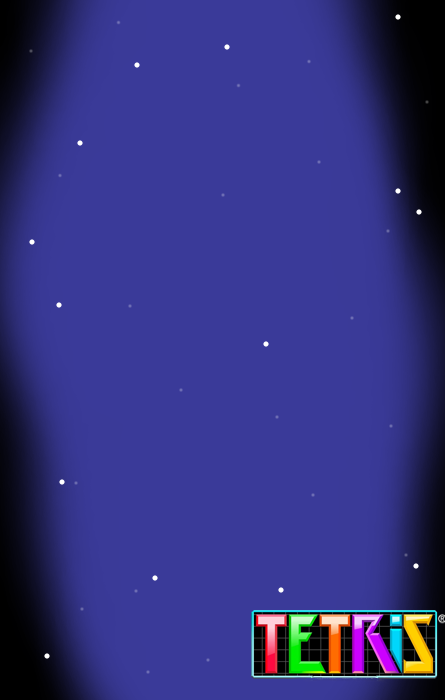
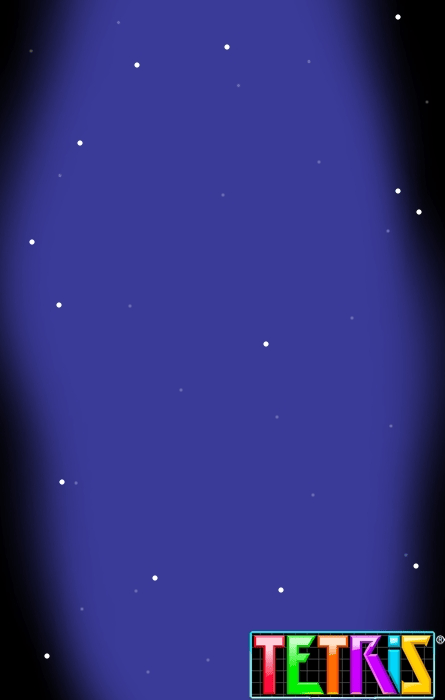
fond decran

Changed region(s): [[0.5551, 0.87, 1.0, 1.0]]

diff --git a/Homepage.java b/Homepage.java
@@ -4,7 +4,7 @@ import java.awt.event.ActionEvent;
 import java.awt.event.ActionListener;
 
 public class Homepage extends JFrame {
-    private final JPanel contentPane;
+    private final JLayeredPane layeredPane;
     public static final int width = 445, height = 700;
 
     TetrisMusic tetrisMusic = new TetrisMusic();
@@ -16,23 +16,55 @@ public class Homepage extends JFrame {
         setResizable(false);
         setLocationRelativeTo(null);
 
-        contentPane = new JPanel();
-        contentPane.setLayout(new BoxLayout(contentPane, BoxLayout.Y_AXIS)); // Utilisation de BoxLayout
-        setContentPane(contentPane);
+        layeredPane = new JLayeredPane();
+        setContentPane(layeredPane);
 
         TetrisMusic.playMenuMusic();
+
+        // Créer un label pour afficher l'image en arrière-plan
+        JLabel imageLabel = new JLabel();
+        ImageIcon menuImage = new ImageIcon("menu.png");
+        imageLabel.setIcon(menuImage);
+
+        // Positionner l'image en arrière-plan au niveau le plus bas de la pile
+        imageLabel.setBounds(0, 0, width, height);
+        layeredPane.add(imageLabel, Integer.valueOf(0));
 
         JButton play = new JButton("Jouer !");
         JButton leaderboard = new JButton("Leaderboard");
         JButton versus = new JButton("Mode versus");
         JButton countdown = new JButton("Mode Contre la montre");
 
-        JPanel buttonPanel = new JPanel(new FlowLayout()); // JPanel pour les boutons
+        // Styliser les boutons
+        Font buttonFont = new Font("Arial", Font.BOLD, 18);
+        play.setFont(buttonFont);
+        leaderboard.setFont(buttonFont);
+        versus.setFont(buttonFont);
+        countdown.setFont(buttonFont);
+
+        play.setBackground(Color.YELLOW);
+        leaderboard.setBackground(Color.GREEN);
+        versus.setBackground(Color.BLUE);
+        countdown.setBackground(Color.RED);
+
+        Dimension buttonSize = new Dimension(75, 30); // Définir la taille préférée des boutons
+        play.setPreferredSize(buttonSize);
+        leaderboard.setPreferredSize(buttonSize);
+        versus.setPreferredSize(buttonSize);
+        countdown.setPreferredSize(buttonSize);
+
+        JPanel buttonPanel = new JPanel(new GridLayout(4, 1, 10, 10)); // Utiliser GridLayout pour aligner les boutons verticalement
+        buttonPanel.setOpaque(false); // Assurez-vous que le panel des boutons est transparent
+        buttonPanel.setBorder(BorderFactory.createEmptyBorder(height / 2 - 100, 0, 0, 0)); // Ajouter une marge pour centrer les boutons
+
         buttonPanel.add(countdown);
         buttonPanel.add(play);
         buttonPanel.add(leaderboard);
         buttonPanel.add(versus);
-        contentPane.add(buttonPanel); // Ajouter le panel des boutons en dessous de l'image
+
+        // Positionner le panel des boutons au-dessus de l'image au niveau supérieur de la pile
+        buttonPanel.setBounds(95, 25, 250, height/2);
+        layeredPane.add(buttonPanel, Integer.valueOf(1));
 
         play.addActionListener(new ActionListener() {
             public void actionPerformed(ActionEvent e) {
@@ -74,7 +106,6 @@ public class Homepage extends JFrame {
 
         setVisible(true);
     }
-
 
     public static void main(String[] args) {
         SwingUtilities.invokeLater(new Runnable() {

diff --git a/GameArea.java b/GameArea.java
@@ -5,11 +5,19 @@ import java.awt.event.ActionListener;
 import java.awt.event.KeyEvent;
 import java.awt.event.KeyListener;
 import java.util.Random;
+import java.awt.Graphics2D;
+import java.awt.Image;
+
 
 public class GameArea extends JPanel implements KeyListener{
     public static int STATE_GAME_PLAY = 0;
     public static int STATE_GAME_PAUSE = 1;
     public static int STATE_GAME_OVER = 2;
+
+
+    private Image transparentImage;
+
+
 
     private int state = STATE_GAME_PLAY;
 
@@ -52,9 +60,11 @@ public class GameArea extends JPanel implements KeyListener{
 
     public GameArea(GameMode gameMode, int countdownTime){
 
+        transparentImage = Toolkit.getDefaultToolkit().getImage("fond_tetris.png");
 
         TetrisMusic.playGameplayMusic();
         this.countdownTime = countdownTime;
+        setPreferredSize(new Dimension(800, 600));
         this.gameMode = gameMode;
         random = new Random();
         blocks[0] = new Block(new int[][]{
@@ -160,8 +170,10 @@ public class GameArea extends JPanel implements KeyListener{
     @Override
     protected void paintComponent(Graphics g){
         super.paintComponent(g);
-        g.setColor(Color.black);
-        g.fillRect(0, 0, getWidth(), getHeight());
+        Graphics2D g2d = (Graphics2D) g.create();
+
+        g2d.drawImage(transparentImage, 0, 0, getWidth(), getHeight(), this);
+
 
         g.setColor(Color.white);
         g.drawString("Score: " + points + "s", 320, 100);
@@ -205,7 +217,7 @@ public class GameArea extends JPanel implements KeyListener{
         if (state == STATE_GAME_PAUSE){
             g.drawString("GAME PAUSED !", 50, 200);
         }
-
+        g2d.dispose();
     }
 
     public Color[][] getGamearea(){

diff --git a/TetrisMusic.java b/TetrisMusic.java
@@ -1,4 +1,5 @@
 import java.io.File;
+import java.util.HashMap;
 import javax.sound.sampled.AudioInputStream;
 import javax.sound.sampled.AudioSystem;
 import javax.sound.sampled.Clip;
@@ -7,6 +8,7 @@ import javax.swing.JOptionPane;
 public class TetrisMusic {
 
     private static Clip currentClip;
+    private static HashMap<String, Clip> playerMusicMap = new HashMap<>();
 
     public static void playMenuMusic() {
         playMusic("tetris_menu.wav", true);
@@ -50,6 +52,13 @@ public class TetrisMusic {
             currentClip.stop();
             currentClip.close();
             currentClip = null;
+        }
+    }
+
+    public static void stopMusicForPlayer(String playerName) {
+        Clip musicClip = playerMusicMap.get(playerName);
+        if (musicClip != null && musicClip.isRunning()) {
+            musicClip.stop();
         }
     }
 

diff --git a/GameWindow.java b/GameWindow.java
@@ -1,6 +1,7 @@
 import javax.swing.*;
 import java.awt.*;
 
+
 public class GameWindow {
 
     public static final int width = 445, height = 700;
